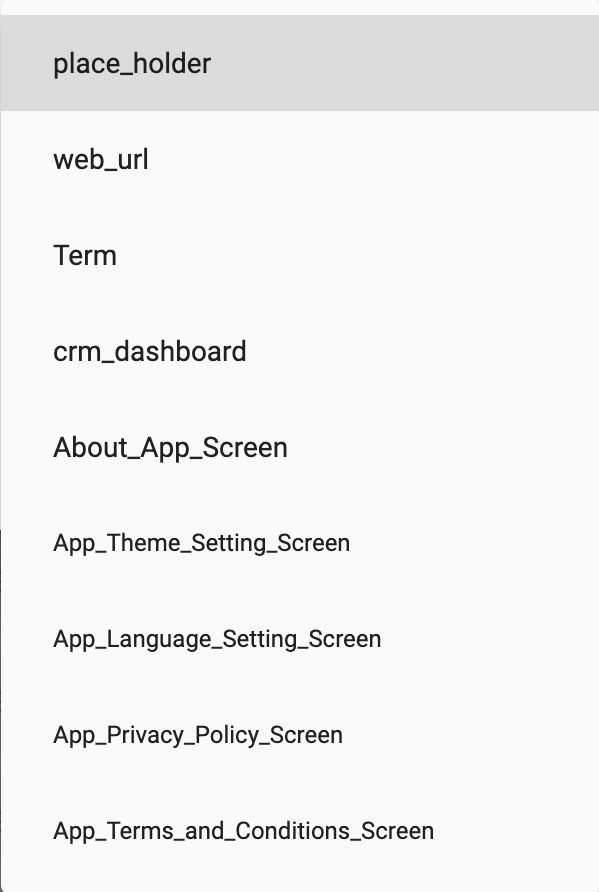
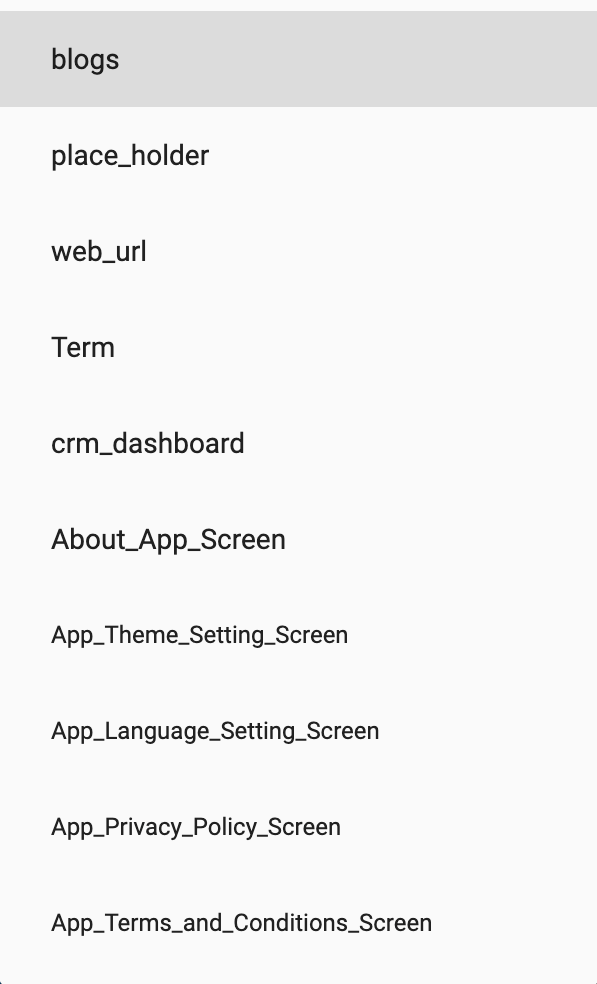
Updated Builder docs about adding blogs in drawer and bottom menu.

diff --git a/_docs/houzi-builder/8_customize-drawer.md b/_docs/houzi-builder/8_customize-drawer.md
@@ -40,6 +40,8 @@ You will encounter following fields on the dialog box:
 
 You are provided with the dropdown list of  **Widget Types**. The details of widget types are as follows: 
 
+* **blogs:** If you want to show the *Houzez Posts/ Blogs* screen menu option.
+
 * **place_holder:** If you want to [Display your Custom Widget via Hooks](https://houzi-docs.booleanbites.com/hooks-widgets/add_custom_widget_in_drawer).
 
 * **web_url:** If you want to show an option which will open a *Webpage*.
@@ -58,7 +60,7 @@ You are provided with the dropdown list of  **Widget Types**. The details of wid
 
 * **App_Terms_and_Conditions_Screen:** If you want to show *App Terms and Conditions* screen menu option.
 
-    <img src="../../images/drawer-add-widget-section-types-dialog.png" alt="drawer-add-widget-section-types-dialog" title="drawer-add-widget-section-types-dialog" width=300 height=420 border= "1px solid"/>
+    <img src="../../images/drawer-add-widget-section-types-dialog.png" alt="drawer-add-widget-section-types-dialog" title="drawer-add-widget-section-types-dialog" width=300 border= "1px solid"/>
 
 
 ### Title:

diff --git a/_docs/houzi-builder/7_customize-navigation-bar.md b/_docs/houzi-builder/7_customize-navigation-bar.md
@@ -72,6 +72,8 @@ You are provided with the dropdown list of  **Widget Types**. The details of wid
 
 * **favourites:** If you want to show the *Favourites* option.
 
+* **blogs:** If you want to show the *Houzez Posts/ Blogs* option.
+
 * **place_holder:** If you want to [Display your Custom Widget via Hooks](https://houzi-docs.booleanbites.com/hooks-widgets/add_custom_page_in_navigation_bar).
 
 * **web_url:** If you want to show an option which will open a *Webpage*.
